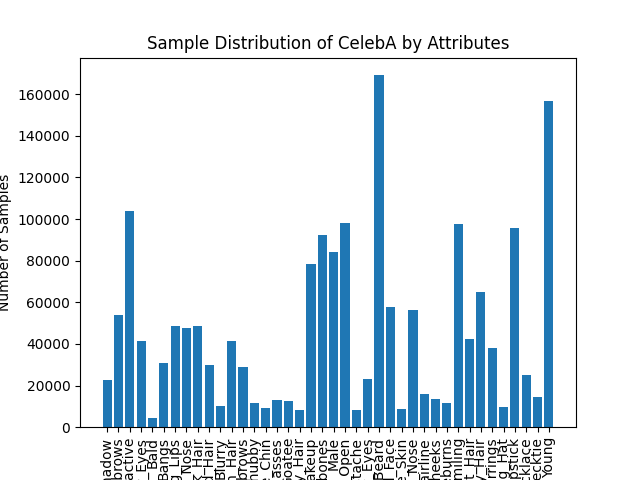
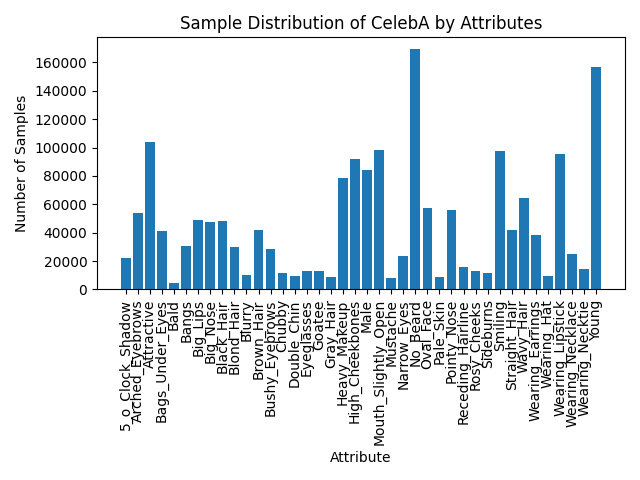
update margins for distribution plot

diff --git a/datasets/celeba.py b/datasets/celeba.py
@@ -32,7 +32,7 @@ class CelebA_Attributes(Dataset):
         celeba.targets=celeba.attr
       
         # provide index/indices for attributes - if more than one they will be bitwise or
-        attributes = [16,22,30]
+        attributes = [22] #goatie 16, mustache 22, no_beard 24, sideburns 30
 
         # choose if attribute should be negated
         attr_negation = False # default is false

diff --git a/datasets/inspect_dataset.py b/datasets/inspect_dataset.py
@@ -30,6 +30,7 @@ plt.xticks(rotation=90)  # Rotate x-axis labels for better readability
 plt.xlabel('Attribute')
 plt.ylabel('Number of Samples')
 plt.title('Sample Distribution of CelebA by Attributes')
+plt.tight_layout()
 plt.savefig('sample_distribution_plot.png')
 plt.show()
 
